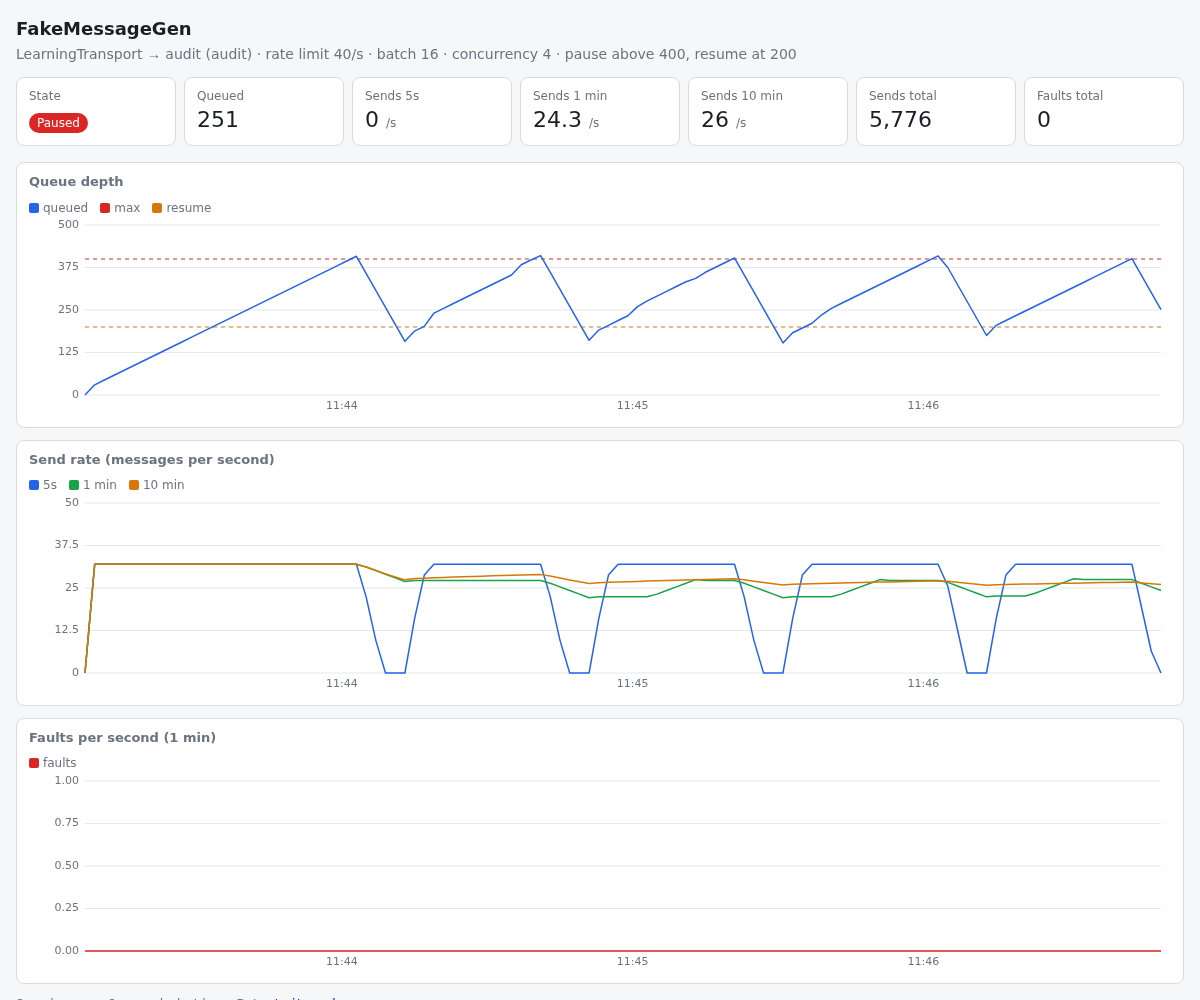
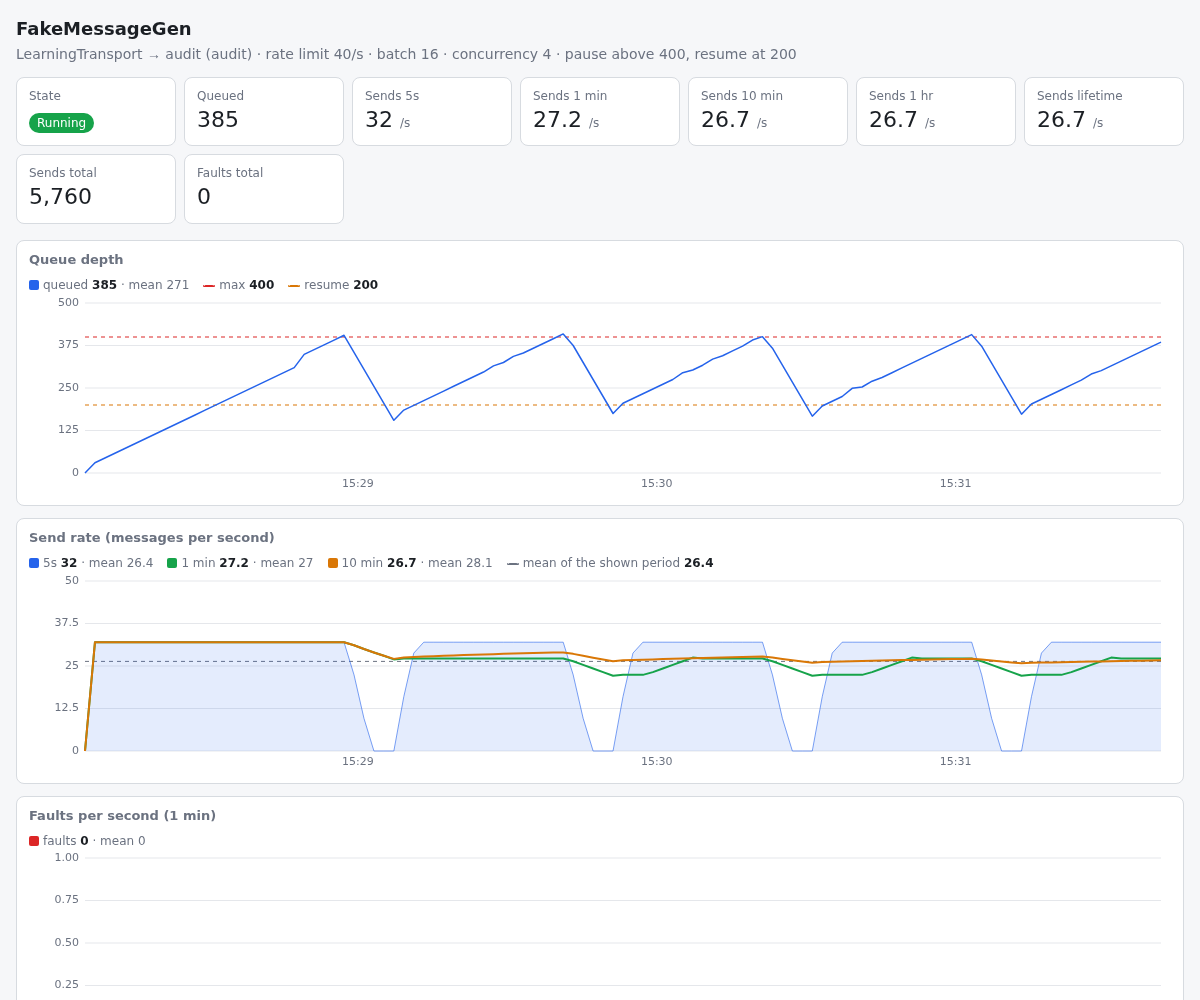
✨ Web view: show the mean of every series and tame the 5 s spikes (#57)
- Legend per chart: latest value and mean over the shown period for every series
- 5 s send rate drawn as a faint area; 1 and 10 minute lines on top; dashed line with the mean send rate of the shown period
- Tiles for the 1 hour and lifetime send rates
- New screenshot

diff --git a/FakeMessageGen/Metrics/index.html b/FakeMessageGen/Metrics/index.html
@@ -24,8 +24,10 @@
   .badge.paused { background:var(--pause) }
   .chart { background:var(--card); border:1px solid var(--line); border-radius:8px; padding:10px 12px; margin-bottom:12px }
   .chart h2 { font-size:13px; margin:0 0 6px; color:var(--muted); font-weight:600 }
-  .legend span { display:inline-block; margin-right:12px; font-size:12px; color:var(--muted) }
+  .legend span { display:inline-block; margin-right:14px; font-size:12px; color:var(--muted); font-variant-numeric:tabular-nums }
+  .legend b { color:var(--fg); font-weight:600 }
   .legend i { display:inline-block; width:10px; height:10px; border-radius:2px; margin-right:4px; vertical-align:-1px }
+  .legend i.dash { height:0; border-top:2px dashed; background:none; width:12px; vertical-align:2px }
   canvas { width:100%; height:200px; display:block }
   .foot { color:var(--muted); font-size:12px }
 </style>
@@ -39,12 +41,14 @@
   <div class="tile"><div class="k">Sends 5s</div><div class="v" id="s5">– <small>/s</small></div></div>
   <div class="tile"><div class="k">Sends 1 min</div><div class="v" id="s1">– <small>/s</small></div></div>
   <div class="tile"><div class="k">Sends 10 min</div><div class="v" id="s10">– <small>/s</small></div></div>
+  <div class="tile"><div class="k">Sends 1 hr</div><div class="v" id="s60">– <small>/s</small></div></div>
+  <div class="tile"><div class="k">Sends lifetime</div><div class="v" id="slife">– <small>/s</small></div></div>
   <div class="tile"><div class="k">Sends total</div><div class="v" id="stotal">–</div></div>
   <div class="tile"><div class="k">Faults total</div><div class="v" id="ftotal">–</div></div>
 </div>
-<div class="chart"><h2>Queue depth</h2><div class="legend"><span><i style="background:var(--c1)"></i>queued</span><span><i style="background:var(--c4)"></i>max</span><span><i style="background:var(--c3)"></i>resume</span></div><canvas id="cq"></canvas></div>
-<div class="chart"><h2>Send rate (messages per second)</h2><div class="legend"><span><i style="background:var(--c1)"></i>5s</span><span><i style="background:var(--c2)"></i>1 min</span><span><i style="background:var(--c3)"></i>10 min</span></div><canvas id="cs"></canvas></div>
-<div class="chart"><h2>Faults per second (1 min)</h2><div class="legend"><span><i style="background:var(--c4)"></i>faults</span></div><canvas id="cf"></canvas></div>
+<div class="chart"><h2>Queue depth</h2><div class="legend" id="lq"></div><canvas id="cq"></canvas></div>
+<div class="chart"><h2>Send rate (messages per second)</h2><div class="legend" id="ls"></div><canvas id="cs"></canvas></div>
+<div class="chart"><h2>Faults per second (1 min)</h2><div class="legend" id="lf"></div><canvas id="cf"></canvas></div>
 <div class="foot" id="foot">Samples every 2 seconds, last hour. Data: <a href="/api/samples">/api/samples</a></div>
 <script>
 const samples = [];
@@ -86,16 +90,41 @@ function render() {
   document.getElementById('s5').innerHTML = fmt(last.sends5s) + ' <small>/s</small>';
   document.getElementById('s1').innerHTML = fmt(last.sends1min) + ' <small>/s</small>';
   document.getElementById('s10').innerHTML = fmt(last.sends10min) + ' <small>/s</small>';
+  document.getElementById('s60').innerHTML = fmt(last.sends1hr) + ' <small>/s</small>';
+  document.getElementById('slife').innerHTML = fmt(last.sendsLifetime) + ' <small>/s</small>';
   document.getElementById('stotal').textContent = fmt0(last.sendsTotal);
   document.getElementById('ftotal').textContent = fmt0(last.faultsTotal);
 
-  const hl = settings ? [{ y: settings.maxQueueLength, color: css('--c4') }, { y: settings.resumeQueueLength, color: css('--c3') }] : [];
-  draw('cq', [{ key: 'queued', color: css('--c1') }], hl);
-  draw('cs', [{ key: 'sends5s', color: css('--c1') }, { key: 'sends1min', color: css('--c2') }, { key: 'sends10min', color: css('--c3') }]);
-  draw('cf', [{ key: 'faults1min', color: css('--c4') }]);
+  const hl = settings ? [{ y: settings.maxQueueLength, color: css('--c4'), label: 'max' }, { y: settings.resumeQueueLength, color: css('--c3'), label: 'resume' }] : [];
+  draw('cq', 'lq', [{ key: 'queued', color: css('--c1'), label: 'queued', digits: 0 }], hl);
+  // The 5 s series is spiky by nature: a batch lands or it does not. It is drawn as a faint area so the 1 and
+  // 10 minute lines stay readable, and the legend carries the mean of every series over the shown period.
+  draw('cs', 'ls', [
+    { key: 'sends5s', color: css('--c1'), label: '5s', fill: true },
+    { key: 'sends1min', color: css('--c2'), label: '1 min', width: 2 },
+    { key: 'sends10min', color: css('--c3'), label: '10 min', width: 2 }
+  ], [{ mean: 'sends5s', color: css('--muted'), label: 'mean of the shown period' }]);
+  draw('cf', 'lf', [{ key: 'faults1min', color: css('--c4'), label: 'faults' }]);
 }
 
-function draw(id, series, lines = []) {
+const mean = key => samples.reduce((a, s) => a + s[key], 0) / samples.length;
+
+function legend(id, series, lines) {
+  const last = samples[samples.length - 1];
+  const parts = series.map(k => {
+    const f = k.digits === 0 ? fmt0 : fmt;
+    return `<span><i style="background:${k.color}"></i>${k.label} <b>${f(last[k.key])}</b> · mean ${f(mean(k.key))}</span>`;
+  });
+  for (const l of lines) {
+    const v = l.mean ? mean(l.mean) : l.y;
+    parts.push(`<span><i class="dash" style="border-color:${l.color}"></i>${l.label} <b>${fmt(v)}</b></span>`);
+  }
+  document.getElementById(id).innerHTML = parts.join('');
+}
+
+function draw(id, legendId, series, lines = []) {
+  legend(legendId, series, lines);
+  for (const l of lines) if (l.mean) l.y = mean(l.mean);
   const c = document.getElementById(id);
   const dpr = window.devicePixelRatio || 1;
   const W = c.clientWidth, H = c.clientHeight;
@@ -128,11 +157,17 @@ function draw(id, series, lines = []) {
     g.strokeStyle = l.color; g.setLineDash([4, 4]);
     g.beginPath(); g.moveTo(pad.l, y(l.y)); g.lineTo(W - pad.r, y(l.y)); g.stroke();
   }
-  g.setLineDash([]); g.lineWidth = 1.5; g.lineJoin = 'round';
+  g.setLineDash([]); g.lineJoin = 'round';
   for (const k of series) {
-    g.strokeStyle = k.color; g.beginPath();
+    g.strokeStyle = k.color; g.lineWidth = k.width || 1.5; g.beginPath();
     samples.forEach((s, i) => { const px = x(s.t.getTime()), py = y(s[k.key]); i ? g.lineTo(px, py) : g.moveTo(px, py); });
-    g.stroke();
+    if (k.fill) {
+      g.lineWidth = 1; g.globalAlpha = 0.6; g.stroke();
+      g.lineTo(x(samples[samples.length - 1].t.getTime()), y(0)); g.lineTo(x(samples[0].t.getTime()), y(0)); g.closePath();
+      g.fillStyle = k.color; g.globalAlpha = 0.12; g.fill(); g.globalAlpha = 1;
+    } else {
+      g.stroke();
+    }
   }
 }
 

diff --git a/CHANGELOG.md b/CHANGELOG.md
@@ -16,6 +16,7 @@ Legend:
 
 ## [Unreleased]
 
+- ✨ Web view: the legend of each chart shows the latest value and the mean over the shown period for every series, the 5 second send rate is drawn as a faint area under the 1 and 10 minute lines, and a dashed line marks the mean send rate of the shown period. Tiles for the 1 hour and lifetime send rates
 ## [2026.2.0] - 2026-10-30
 
 - 📦 ❗ Added a direct reference to System.Security.Cryptography.Pkcs 10.0.14. NuGet.Packaging 7.9.0 pulls in 8.0.1, which has known vulnerabilities ([GHSA-2fmv-rv2c-59x7](https://github.com/advisories/GHSA-2fmv-rv2c-59x7), [GHSA-846f-f764-76mx](https://github.com/advisories/GHSA-846f-f764-76mx))
